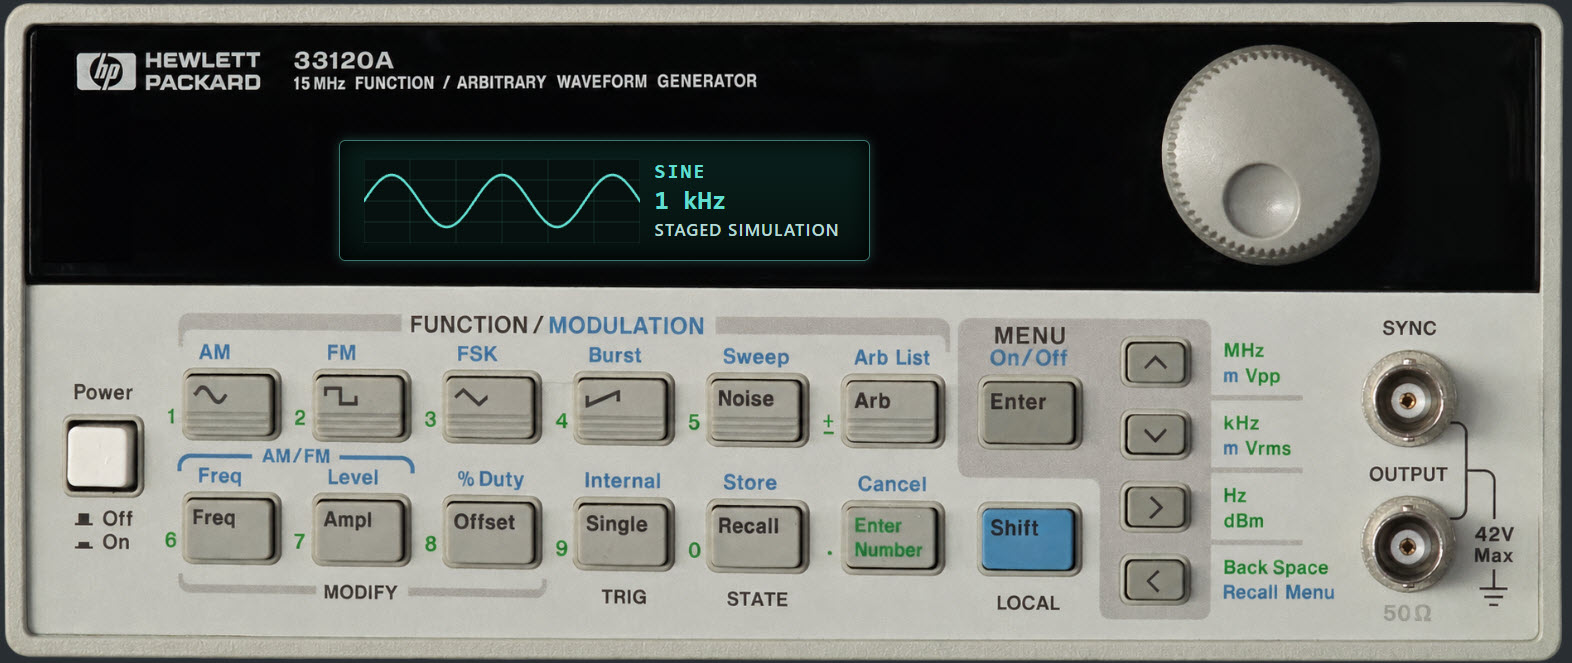
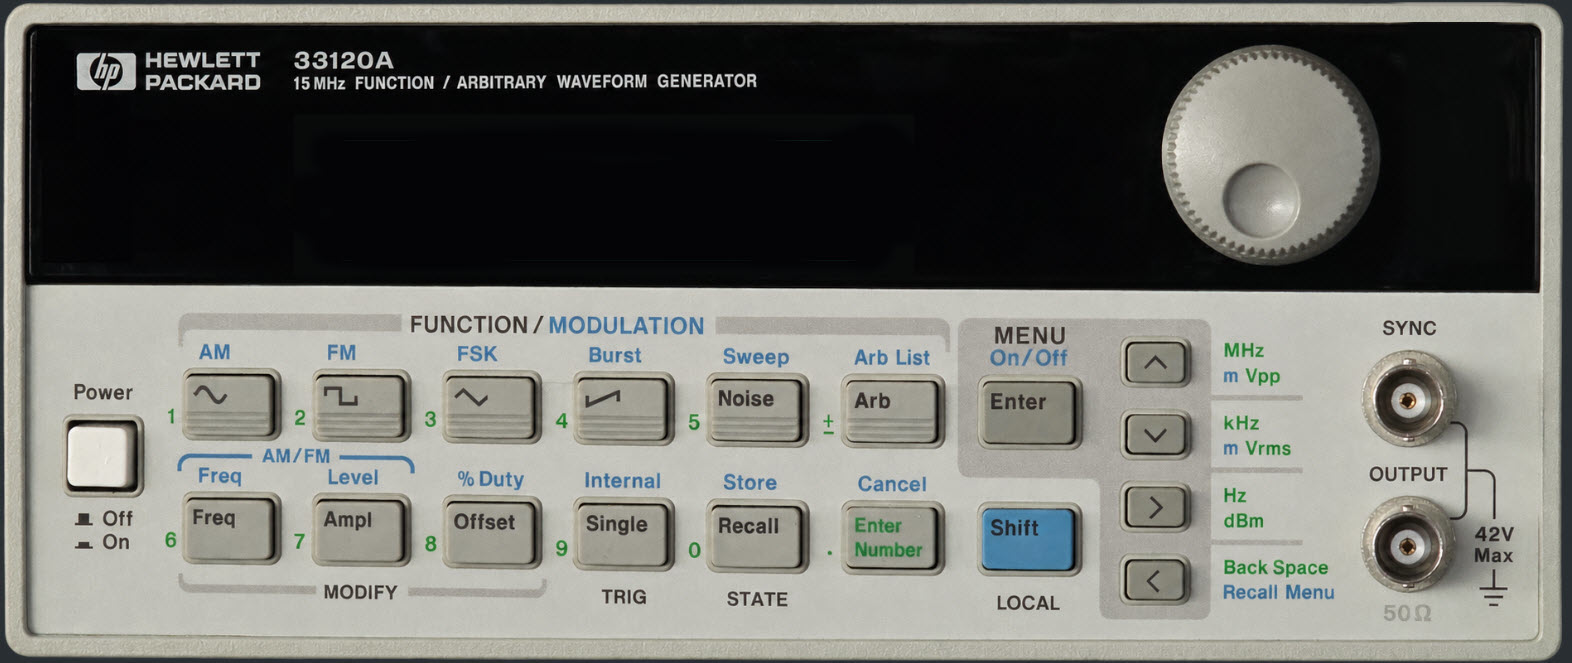
Sync HP 33120A panel and sweep token fix

Changed region(s): [[0.2182, 0.2112, 0.5611, 0.362], [0.4364, 0.3922, 0.4676, 0.4223], [0.3117, 0.3922, 0.3429, 0.4223]]

diff --git a/hp33120a/static/generator.js b/hp33120a/static/generator.js
@@ -110,7 +110,7 @@ async function act(action,data={}){
 document.querySelectorAll('[data-action]').forEach(b=>b.addEventListener('click',()=>act(b.dataset.action)));
 $('settings').addEventListener('input',()=>{updateStagedFrequency();previewSweep=false;$('staged-note').textContent='Staged changes only — click Apply when ready.';updateSimulation();enable()});
 $('function').addEventListener('change',syncFrequencyLimits);syncFrequencyLimits();updateStagedFrequency();
-$('settings').addEventListener('submit',e=>{e.preventDefault();previewSweep=false;updateSimulation();const settings={function:$('function').value,load:$('load').value};settings.frequency=frequencyHz('frequency','frequency-unit');for(const key of ['amplitude','offset'])settings[key]=Number($(key).value);act('apply',{settings,expected_token:configuration?.token||null,confirm_output_change:true})});
+$('settings').addEventListener('submit',e=>{e.preventDefault();previewSweep=false;updateSimulation();const settings={function:$('function').value,load:$('load').value};settings.frequency=frequencyHz('frequency','frequency-unit');for(const key of ['amplitude','offset'])settings[key]=Number($(key).value);act('apply',{settings,expected_token:configuration?.configuration_token||configuration?.token||null,confirm_output_change:true})});
 $('copy-readback').addEventListener('click',()=>{if(!configuration)return;if(configuration.unit!=='VPP'||!['SIN','SQU','TRI','RAMP'].includes(configuration.function)){$('error').textContent='Copy requires a supported waveform in Vpp. Review and enter staged settings explicitly.';return}for(const key of ['function','amplitude','offset','load'])$(key).value=configuration[key];setFrequencyValue('frequency','frequency-unit',configuration.frequency);syncFrequencyLimits();updateStagedFrequency();enable()});
 const fonts={monospace:'Consolas,monospace',courier:'"Courier New",monospace',system:'system-ui,sans-serif'},simulationSizes=new Set(['normal','large','xlarge']);
 function appearance(save=true){document.documentElement.style.setProperty('--reading-font',fonts[$('display-font').value]);document.documentElement.style.setProperty('--reading-color',$('display-color').value);document.documentElement.dataset.simSize=$('simulation-size').value;updateSimulation();if(save)try{localStorage.setItem('hp33120a-appearance',JSON.stringify({font:$('display-font').value,color:$('display-color').value,simulationSize:$('simulation-size').value}))}catch{}}

diff --git a/test_generator.py b/test_generator.py
@@ -29,4 +29,16 @@ class GeneratorViews(unittest.TestCase):
         self.assertEqual(response.status_code,200)
         self.assertEqual(response.get_json()['configuration']['frequency'],2000)
 
+
+    def test_static_apply_after_sweep_stop_uses_waveform_token(self):
+        read=self.client.post('/api/control/generator/sweep_configuration',json={},headers={'Origin':self.origin}).get_json()['configuration']
+        started=self.client.post('/api/control/generator/sweep_start',json={'expected_token':read['token'],'confirm_output_change':True},headers={'Origin':self.origin}).get_json()['configuration']
+        stopped=self.client.post('/api/control/generator/sweep_stop',json={'expected_token':started['stop_token'],'confirm_output_change':True},headers={'Origin':self.origin}).get_json()['configuration']
+        self.assertEqual(stopped['modes']['SWE'],'0')
+        self.assertIn('configuration_token',stopped)
+        settings={'function':'SIN','frequency':2000,'amplitude':1,'offset':0,'load':'50'}
+        response=self.client.post('/api/control/generator/apply',json={'settings':settings,'expected_token':stopped['configuration_token'],'confirm_output_change':True},headers={'Origin':self.origin})
+        self.assertEqual(response.status_code,200)
+        self.assertEqual(response.get_json()['configuration']['frequency'],2000)
+
 if __name__=='__main__':unittest.main()

diff --git a/hp33120a/protocol.py b/hp33120a/protocol.py
@@ -130,6 +130,7 @@ def validate_sweep(data, function='SIN'):
 
 def sweep_snapshot(dev):
     result=snapshot(dev)
+    result['configuration_token']=result['token']
     result['sweep']={k:read_number(dev,c) for k,c in [('start','FREQ:STAR?'),('stop','FREQ:STOP?'),('time','SWE:TIME?')]}
     result['sweep']['spacing']=dev.query('SWE:SPAC?').strip()
     del result['token']
